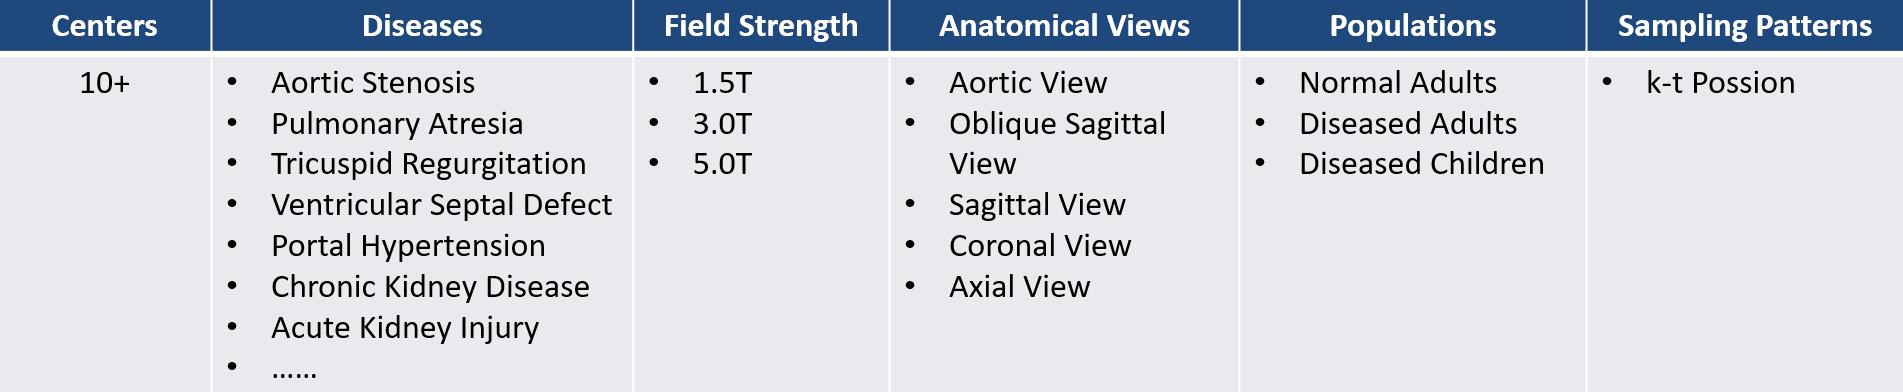
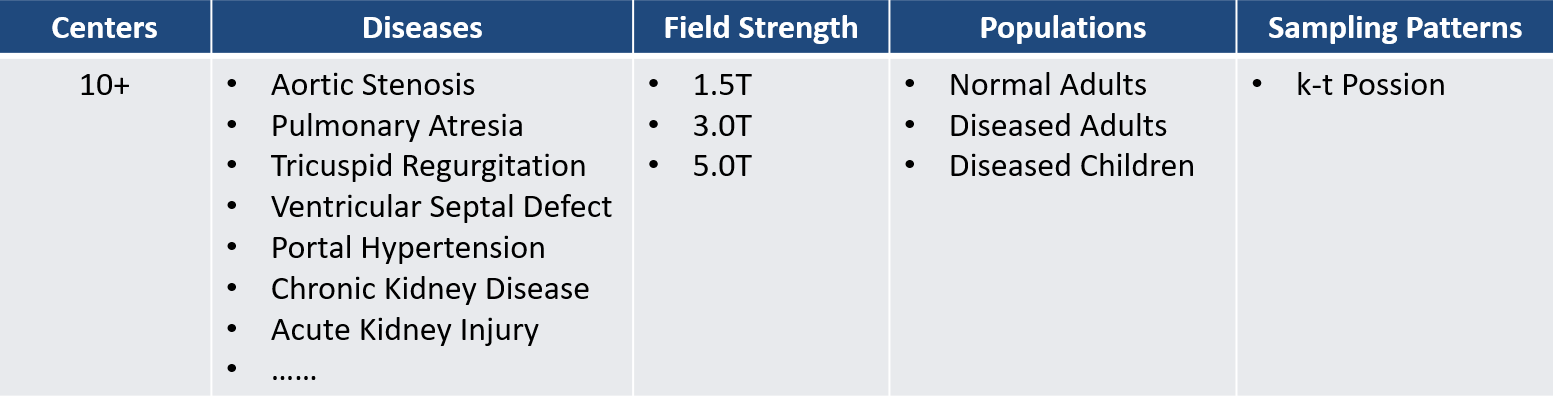
Save local changes

diff --git a/pages/2026/index.md b/pages/2026/index.md
@@ -5,7 +5,7 @@ pageClass: narrow-page
 
 hero:
   name: "CMRx4DFlow2026"
-  text: "Official website for CMRxRecon series challenges"
+  text: "Official website for CMRx series challenges"
   tagline: Ultra-Fast 4D Flow MRI Reconstruction Challenge
 
 features:
@@ -23,8 +23,6 @@ features:
 ![Slide 1](./public/home/image1.png)
 
 
----
-
 ## About Us
 
 #### Welcome to the 4D Flow MRI Reconstruction Challenge 2026 (CMRx4DFlow2026)
@@ -38,11 +36,11 @@ LEARN MORE (MICCAI 2026 - 29. International Conference On Medical Image Computin
 
 **🌟 What is 4D Flow MRI? (Beyond Images: A "Digital Twin" of Your Cardiovascular System)**
 
-Imagine not just taking a static "snapshot" of the heart, but creating a complete, dynamic replica of blood circulating within you in the digital world. This is 4D Flow MRI—building a precise cardiovascular "Digital Twin."
+Imagine not just taking a static "snapshot" of the heart, but creating a complete, dynamic replica of blood circulating within you in the digital world. This is **4D Flow MRI**—building a precise cardiovascular **"Digital Twin."**
 
-- 3D Space + 1D Time: 4D Flow MRI captures the intricate hemodynamic dynamics across the entire cardiac cycle, detailing every pulsation, swirl, and impact of blood flow in three-dimensional space.
-- Beyond Anatomy: It quantitatively calculates critical hemodynamic parameters such as Flow Velocity, Wall Shear Stress (WSS), and Vorticity.
-- Pivotal Clinical Value: Clinicians can use this "digital proxy" to precisely assess risks for aortic aneurysms, stenosis, or dissections, and simulate surgical planning.
+- **3D Space + 1D Time**: 4D Flow MRI captures the intricate hemodynamic dynamics across the entire cardiac cycle, detailing every pulsation, swirl, and impact of blood flow in three-dimensional space.
+- **Beyond Anatomy**: It quantitatively calculates critical hemodynamic parameters such as **Flow Velocity, Wall Shear Stress (WSS)**, and **Vorticity**.
+- **Pivotal Clinical Value**: Clinicians can use this "digital proxy" to precisely assess risks for aortic aneurysms, stenosis, or dissections, and simulate surgical planning.
 <br/>
 <center>
   <img src="./public/home/PAGE.gif" style="max-width: 900px; width: 100%; margin-top: 12px;" />
@@ -52,14 +50,12 @@ Imagine not just taking a static "snapshot" of the heart, but creating a complet
 
 While 4D Flow concept is powerful, its widespread routine clinical adoption faces significant, long-standing barriers.
 
-- The Clinical Pain Point: Time Burden: Acquiring a comprehensive (high resolution) 4D Flow dataset typically demands 30–60 minutes of scanner time. This duration is not only physically demanding for patients, often leading to motion artifacts, but also imposes prohibitive time and cost burdens on hospital workflows.
-- The Technological Bottleneck: Insufficient Acceleration: While existing acceleration techniques (such as parallel imaging or standard compressed sensing) have reduced scan times, they commonly yield results in 10–20 minutes with low to medium spatial resolution. This remains significantly longer than the sub-5-minute window desired for integration into routine clinical MRI protocols.
-- The Unique Acceleration Potential of 4D Flow: Unlike conventional 2D or 3D MRI, 4D Flow data inherently includes three spatial dimensions plus a temporal dimension, and multiple velocity encoding dimensions. This creates a massive data acquisition burden, but simultaneously offers a vast parameter space for intelligent undersampling. The redundant information across these multiple dimensions presents a unique and significant opportunity for AI-driven reconstruction to achieve unprecedented acceleration rates.
-- The AI Opportunity: Breaking the Speed Limit: This challenge is our call to action. We seek innovative algorithms that leverage advanced deep learning and reconstruction methodologies to bridge this critical gap. By achieving high-fidelity hemodynamic information from extreme undersampling (10x–50x data reduction), we can dramatically accelerate 4D Flow MRI.
+- **The Clinical Pain Point: Time Burden:** Acquiring a comprehensive (high resolution) 4D Flow dataset typically demands **30–60 minutes** of scanner time. This duration is not only physically demanding for patients, often leading to motion artifacts, but also imposes prohibitive time and cost burdens on hospital workflows.
+- **The Technological Bottleneck:** Insufficient Acceleration: While existing acceleration techniques (such as parallel imaging or standard compressed sensing) have reduced scan times, they commonly yield results in **10–20 minutes with low to medium spatial resolution.** This remains significantly longer than the **sub-5-minute** window desired for integration into routine clinical MRI protocols.
+- **The Unique Acceleration Potential of 4D Flow:** Unlike conventional 2D or 3D MRI, 4D Flow data inherently includes three spatial dimensions plus a temporal dimension, and multiple velocity encoding dimensions. This creates a massive data acquisition burden, but simultaneously offers a vast parameter space for intelligent undersampling. The redundant information across these multiple dimensions presents a unique and significant opportunity for AI-driven reconstruction to achieve unprecedented acceleration rates.
+- **The AI Opportunity: Breaking the Speed Limit:** This challenge is our call to action. We seek innovative algorithms that leverage advanced deep learning and reconstruction methodologies to bridge this critical gap. By achieving high-fidelity hemodynamic information from extreme undersampling (10x–50x data reduction), we can dramatically accelerate 4D Flow MRI.
 
-The Core Goal: CMRx4DFlow2026 provides a standardized benchmark to accelerate the clinical adoption of 4D Flow MRI. We promote reconstruction algorithms that balance high-fidelity accuracy with computational efficiency, ensuring robust performance across diverse scanners and patient populations
-
----
+**The Core Goal:** CMRx4DFlow2026 provides a standardized benchmark to accelerate the clinical adoption of 4D Flow MRI. We promote reconstruction algorithms that balance high-fidelity accuracy with computational efficiency, ensuring robust performance across diverse scanners and patient populations.
 
 ## Evolution of the CMRxRecon Series
 
@@ -71,15 +67,20 @@ The Core Goal: CMRx4DFlow2026 provides a standardized benchmark to accelerate th
 | 2026 | 4D Flow MRI | 10+ | 10+ | Healthy individuals; patients with multi-organ diseases (heart, brain, aorta, kidney, liver, carotid artery) | 3D Cartesian (k-t Gaussian) | ~400 |
 
 
-To bridge the gap between research and clinical deployment, the 2026 challenge utilizes over 400 cases from 10+ centers to evaluate reconstruction performance across four specific dimensions:
+To bridge the gap between research and clinical deployment, the 2026 challenge utilizes over **400 cases** from **10+** centers to evaluate reconstruction performance across four specific dimensions:
 
-1. Regular Task 1: Accurate Reconstruction under High Acceleration – To evaluate the robustness and generalization performance of reconstruction models under high (10x-50x) acceleration factors across different clinical centers and various scanners.
-2. Regular Task 2: Fast Reconstruction under Limited Computing Resources – To evaluate the clinical performance and computational efficiency of reconstruction models across standardized hardware (NVIDIA A6000).
-3. Special Task 1: Generalizability across new sites and diseases – To evaluate the hardware robustness and cross-site generalization performance of reconstruction models across different magnetic field strengths (1.5T, 3T, and 5T) and diverse clinical scenarios.
-4. Special Task 2: Generalizability across different anatomical regions – To evaluate the universality and cross-organ generalization performance of reconstruction models across multiple anatomical regions (e.g., brain, liver, kidney, and carotid arteries).
+1. **Regular Task 1: Accurate Reconstruction under High Acceleration** – To evaluate the robustness and generalization performance of reconstruction models under high (10x-50x) acceleration factors across different clinical centers and various scanners.
+2. **Regular Task 2: Fast Reconstruction under Limited Computing Resources** – To evaluate the clinical performance and computational efficiency of reconstruction models across standardized hardware (NVIDIA A6000).
+3. **Special Task 1: Generalizability across new sites and diseases** – To evaluate the hardware robustness and cross-site generalization performance of reconstruction models across different magnetic field strengths (1.5T, 3T, and 5T) and diverse clinical scenarios.
+4. **Special Task 2: Generalizability across different anatomical regions** – To evaluate the universality and cross-organ generalization performance of reconstruction models across multiple anatomical regions (e.g., brain, liver, kidney, and carotid arteries).
 
+## Awards
+The top 5 winners in each task will receive monetary awards. The bonus distribution plan is shown in the table below.
+<center>
+  <img src="/tasks/awards.png" alt="Awards Overview" width="100%" style="max-width: 1100px; height: auto; margin-bottom: 20px;">
+</center>
+All submissions will be reported in the leaderboard. Each participating team can engage in any tasks or all four tasks. Prize-winning methods will be announced publicly as part of a scientific session at the MICCAI annual meeting.
 
----
 
 ## Timeline
 The schedule of the challenge is as follows. All deadlines are Pacific Standard Time (PST +11:59).

diff --git a/pages/2026/faq.md b/pages/2026/faq.md
@@ -4,52 +4,67 @@ title: FAQ
 
 # FAQ
 
-
-
-**14. How to apply the undersampling mask to fully-sampled training data?**  
-To replicate the undersampled data for validation and test, please refer to matlab version:  
-[Matlab Undersample Demo](https://github.com/CmrxRecon/CMRxRecon2024/tree/main/CMRxReconDemo/undersampleDemo)  
-Or the python version:  
-[Python ShowCase Notebook](https://github.com/CmrxRecon/CMRxRecon2024/blob/main/ReconTutorial/ShowCase.ipynb)
-
-**13. How can we perform model computation using the sensitivity map?**  
-Our original data does not provide a sensitivity map, but the central 16 lines (ny) or the 16×16 of our k-space are fully sampled and can be used as calibration lines for GRAPPA reconstruction. Alternatively, you can use the "demo_myESP_SENSEmap.m" code provided at [GitHub link](https://github.com/CmrxRecon/CMRxRecon2024/tree/main/CMRxReconDemo/csmDemo)
-
-**12. Should we compute the evaluations after cropping the images? Specifically, should we evaluate the entire image or only the cardiac region?**  
-Please follow the Submission example we provided and save the results in `.mat` format, with the data dimensions consistent with the original data (without the coil dimensions). During the validation phase, to reduce file size, please use the `run4Ranking.m` code provided to crop the image data and save it with the same directory structure. All file names should match the original data names. For more details, please refer to [Submission repo](https://github.com/CmrxRecon/CMRxRecon2024/tree/main/Submission)
-
-**11. What should we do if the k-space sizes are not uniform?**  
-We recommend zero-padding the k-space data to a consistent size for reconstruction, and then cropping them back to its original dimensions.
-
-**10. Does the validation submission affect the final ranking?**  
-No, the validation submission does not affect the final ranking.
-
-**9. How should we aggregate evaluations for different acceleration factors and sampling patterns?**  
-For all the tasks regarding the sampling patterns and accelerations, all paired data are assigned equal weight when calculating the final ranking metrics.
-
-**8. Do we need to upload the training code?**  
-We do not require teams to upload the training code. Only the inference code's Docker image is needed for participation.
-
-**7. Can we preprocess the data?**  
-We do not restrict any data preprocessing, and we only evaluate the final reconstruction effect. However, the total running time for all data in each task cannot exceed 20 hours.
-
-**6. Is motion correction between different frames necessary?**  
-No, it can be done but is not mandatory.
-
-**5. Is it necessary to introduce data fidelity terms?**  
-It can be done but is not mandatory. We only evaluate the test results and do not have specific requirements for the process.
-
-**4. Is it mandatory to perform calculations in the complex domain?**  
-It is not mandatory.
-
-**3. What is the maximum number of team members allowed?**  
-Each team can consist of up to 6 people. The authors in the submitted paper should be the same as the team member list.
+**1. Is it possible to download the challenge dataset without participating in the challenge?**  
+Yes. However, all results generated based on this dataset can only be published three months after the end of the challenge. According to our agreement, it is required to cite our provided article and acknowledge the data source when referencing the results.
 
 **2. Can other datasets or pre-trained models be used to develop the reconstruction algorithms?**  
 Yes. But to ensure the fairness of this challenge, you are only allowed to use the datasets provided by CMRxRecon2023,CMRxRecon2024, CMRxRecon2025 and CMRxRecon2026. Data augmentation based on the training dataset is allowed.
 
-**1. Is it possible to download the challenge dataset without participating in the challenge?**  
-Yes. However, all results generated based on this dataset can only be published three months after the end of the challenge. According to our agreement, it is required to cite our provided article and acknowledge the data source when referencing the results.
+**3. What is the maximum number of team members allowed?**  
+Each team can consist of up to 6 people. The authors in the submitted paper should be the same as the team member list.
+
+**4. Is it mandatory to perform calculations in the complex domain?**  
+It is not mandatory.
+
+**5. Is it necessary to introduce data fidelity terms?**  
+It can be done but is not mandatory. We only evaluate the test results and do not have specific requirements for the process.
+
+**6. Is motion correction between different frames necessary?**  
+No, it can be done but is not mandatory.
+
+**7. Can we preprocess the data?**  
+We do not restrict any data preprocessing, and we only evaluate the final reconstruction effect. However, the total running time for all data in each task cannot exceed 20 hours.
+
+**8. Do we need to upload the training code?**  
+We do not require teams to upload the training code. Only the inference code's Docker image is needed for participation.
+
+**9. How should we aggregate evaluations for different acceleration factors and sampling patterns?**  
+For all the tasks regarding the sampling patterns and accelerations, all paired data are assigned equal weight when calculating the final ranking metrics.
+
+**10. Does the validation submission affect the final ranking?**  
+No, the validation submission does not affect the final ranking.
+
+
+**11. What should we do if the k-space sizes are not uniform?**  
+We recommend zero-padding the k-space data to a consistent size for reconstruction, and then cropping them back to its original dimensions.
+
+**12. Should we compute the evaluations after cropping the images? Specifically, should we evaluate the entire image or only the cardiac region?**  
+Evaluations are performed within the vessel ROI only, using the provided segmentation mask (*segmask). The segmask contains the vascular region-of-interest.
+For submission, participants should apply the segmask to their reconstructed images and submit the masked (ROI-only) results . Please keep the data dimensions consistent with the original data excluding the coil dimension, and preserve the original directory structure and file names.
+Details can be found at: [link](https://github.com/CmrxRecon/CMRx4DFlow2026/blob/main/CMRx4DFlowReconDemo/4_EvaluationDemo/example_evaluation.ipynb)
+
+**13. How can we perform model computation using the sensitivity map?**  
+Our data includes a sensitivity map for each case, generated using ESPIRiT from the central 24 × 24 × 24 k-space region after averaging over the velocity-encoding and temporal dimensions.
+
+**14. How to apply the undersampling mask to fully-sampled training data?**  
+To replicate the undersampled data for validation and test, please refer to :  
+[link](https://github.com/CmrxRecon/CMRx4DFlow2026/blob/main/CMRx4DFlowReconDemo/1_UndersamplingDemo/example_undersampling.ipynb)  
+
+
+
+
+
+
+
+
+
+
+
+
+
+
+
+
 
 # Rules
 

diff --git a/pages/2026/tasks.md b/pages/2026/tasks.md
@@ -3,10 +3,18 @@ title: Tasks
 ---
 
 # Tasks
+
+<center>
+  <img src="/tasks/newpic.png" 
+       alt="CMRxRecon Tasks Overview" 
+       width="100%" 
+       style="max-width: 800px; height: auto; margin-bottom: 20px;">
+</center>
+
 <center>
   <img src="/tasks/image1.png" 
        alt="CMRxRecon Tasks Overview" 
-       width="90%" 
+       width="100%" 
        style="max-width: 800px; height: auto; margin-bottom: 20px;">
 </center>
 
@@ -120,7 +128,7 @@ While the primary regular tasks focus on aortic 4D Flow, the principles of blood
 The top 5 winners in each task will receive monetary awards. The bonus distribution plan is shown in the table below.
 
 <center>
-  <img src="/tasks/awards.png" alt="Awards Overview" width="90%" style="max-width: 1100px; height: auto; margin-bottom: 20px;">
+  <img src="/tasks/awards.png" alt="Awards Overview" width="100%" style="max-width: 1100px; height: auto; margin-bottom: 20px;">
 </center>
 
 All submissions will be reported in the leaderboard. Each participating team can engage in any tasks or all four tasks. Prize-winning methods will be announced publicly as part of a scientific session at the MICCAI annual meeting.

diff --git a/pages/2026/join-the-challenge.md b/pages/2026/join-the-challenge.md
@@ -9,7 +9,9 @@ title: Join the Challenge
 2. Submit your team information here: [WJX Form](https://www.wjx.top/vm/rkAd42X.aspx#) (`https://www.wjx.top/vm/rkAd42X.aspx#`)
 
 ### Download the data
-Download data here: [Synapse Data](https://www.synapse.org/Synapse:syn64545434/wiki/638361) (`https://www.synapse.org/Synapse:syn64545434/wiki/638361`)
+Download mimic data here (for testing)[Data](/mnt/nas/nas3/openData/rawdata/4dFlow/ChallengeData/Demo) (`/mnt/nas/nas3/openData/rawdata/4dFlow/ChallengeData/Demo`)
+
+Download full data here (for the challenge) [Data](https://www.synapse.org/Synapse:syn64545434/wiki/638361) (`https://www.synapse.org/Synapse:syn64545434/wiki/638361`)
 
 ### Train the model
 Participants are expected to train models in their local computational environments and submit docker containers on the Synapse platform.  

diff --git a/pages/2026/data.md b/pages/2026/data.md
@@ -43,13 +43,6 @@ CMRxRecon2026 provides an extensive multi-center, multi-vendor k-space 4D Flow M
 - **Sequence Type:** ECG-gated 3D Cartesian 4D Flow MRI  
   - Protocols include both retrospective gating and prospective gating
 
-📊 **Anatomical Views**
-
-- Aortic view  
-- Oblique sagittal view  
-- Sagittal view  
-- Coronal view  
-- Axial view
 
 📊 **Diseases**
 
